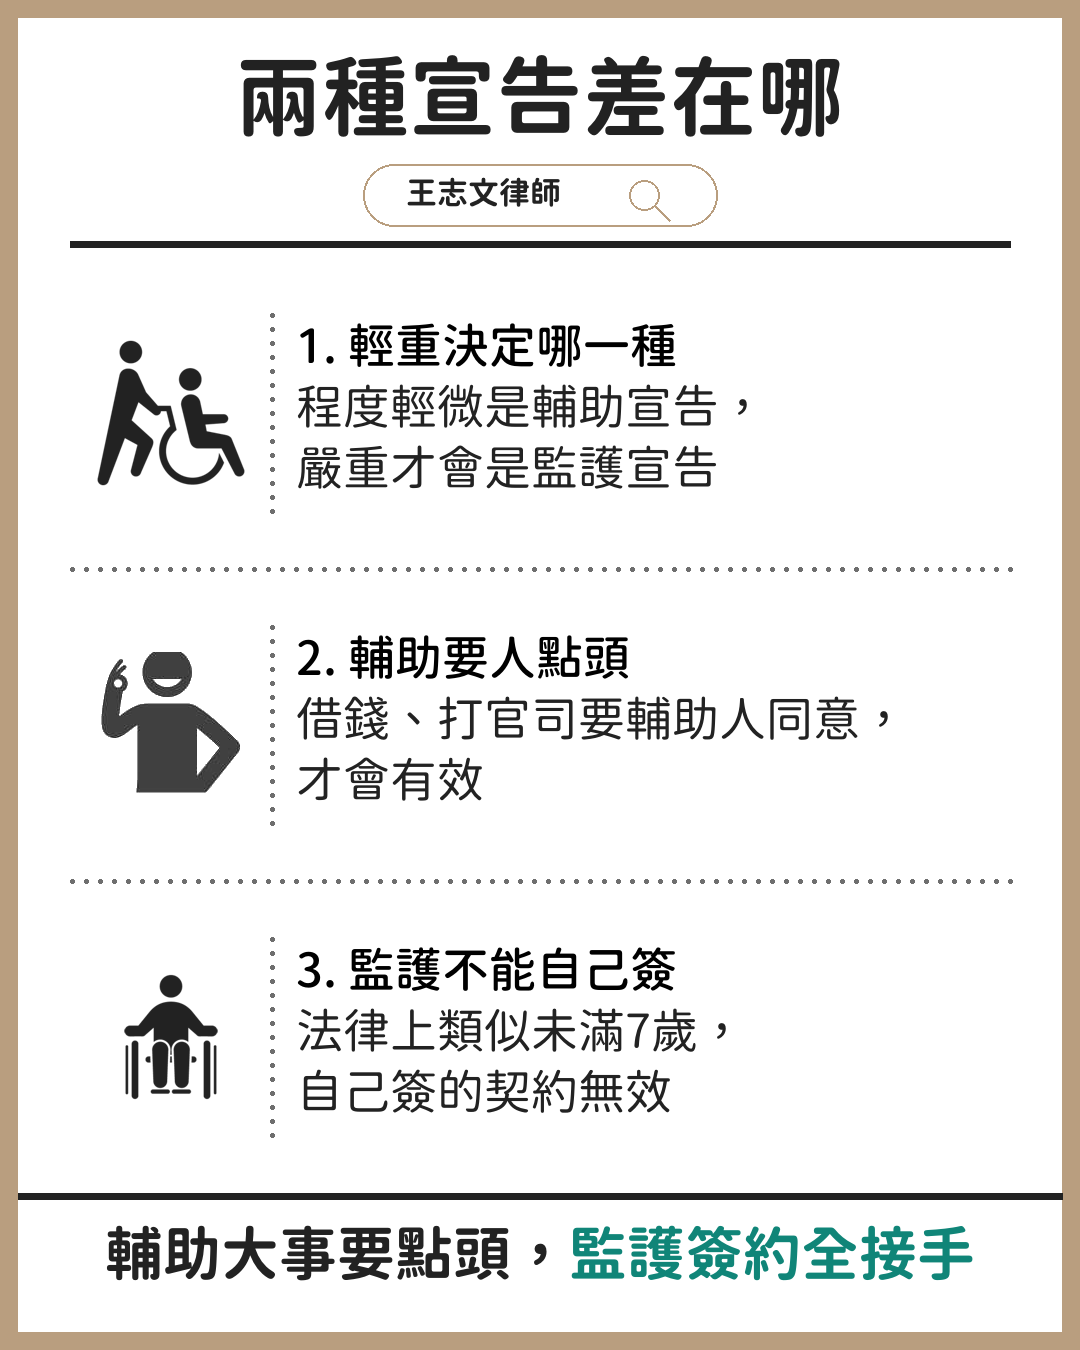
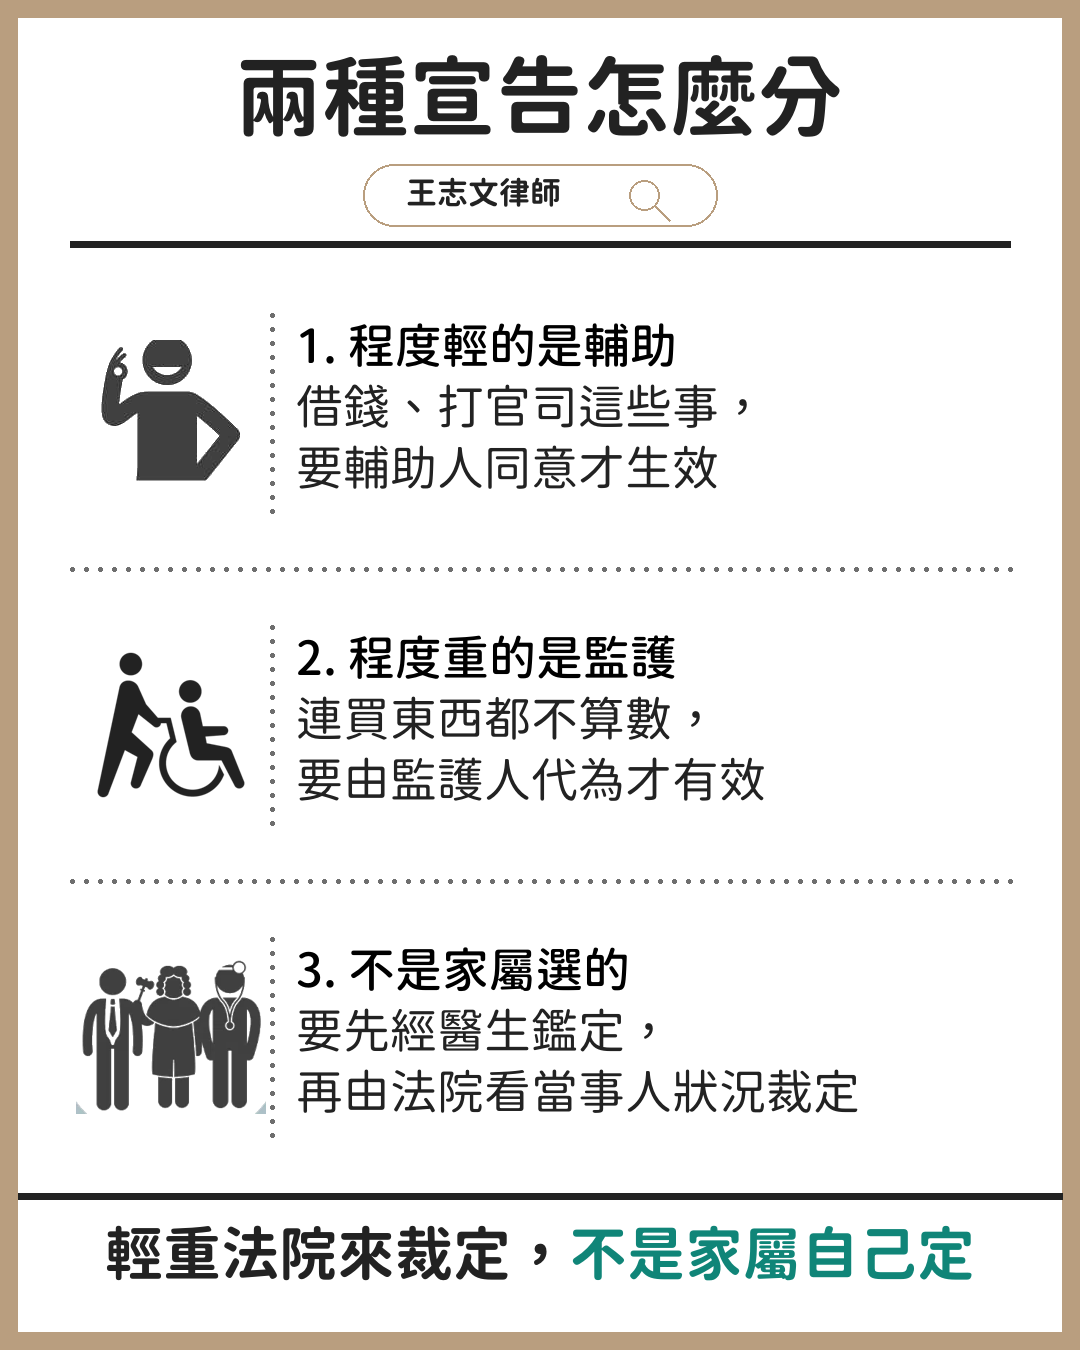
seo: 社群素材 2026-W37（3 則）

diff --git a/seo/2026-W37.html b/seo/2026-W37.html
@@ -1,0 +1,96 @@
+<!doctype html>
+<html lang="zh-Hant">
+<head>
+<meta charset="utf-8">
+<meta name="viewport" content="width=device-width, initial-scale=1">
+<meta name="robots" content="noindex, nofollow">
+<title>SEO 社群素材 2026-W37</title>
+<style>
+  :root { color-scheme: light dark; }
+  * { box-sizing: border-box; }
+  body { margin:0; padding:16px; font-family:-apple-system,"PingFang TC",system-ui,sans-serif;
+         line-height:1.75; background:#f5f5f7; color:#1c1c1e; }
+  @media (prefers-color-scheme: dark) { body { background:#000; color:#f2f2f7; } }
+  header { max-width:680px; margin:0 auto 20px; }
+  h1 { font-size:20px; margin:0 0 6px; }
+  .hint { font-size:14px; opacity:.7; margin:0; }
+  .card { max-width:680px; margin:0 auto 18px; background:#fff; border-radius:14px;
+           padding:16px; box-shadow:0 1px 3px rgba(0,0,0,.08); }
+  @media (prefers-color-scheme: dark) { .card { background:#1c1c1e; } }
+  .meta { display:flex; gap:10px; align-items:center; font-size:12px; opacity:.6;
+           margin-bottom:10px; flex-wrap:wrap; }
+  .num { font-weight:600; opacity:1; }
+  .cardimg { width:100%; border-radius:10px; display:block; margin-bottom:8px; }
+  .imghint { font-size:12px; opacity:.55; margin:0 0 12px; }
+  .body { font-size:16px; white-space:pre-wrap; margin-bottom:14px; }
+  .actions { display:flex; gap:10px; }
+  .btn { flex:1; text-align:center; padding:12px; border-radius:10px; font-size:15px;
+          text-decoration:none; border:0; cursor:pointer; font-family:inherit; }
+  .primary { background:#000; color:#fff; font-weight:600; }
+  @media (prefers-color-scheme: dark) { .primary { background:#fff; color:#000; } }
+  .ghost { background:rgba(120,120,128,.16); color:inherit; }
+</style>
+</head>
+<body>
+<header>
+  <h1>SEO 社群素材 2026-W37</h1>
+  <p class="hint">點「發到 Threads」會開啟 Threads 並自動填好內容，你只要按發布。<br>
+     內容全部取自站上已發布的文章，沒有新增任何法律主張。</p>
+</header>
+
+  <article class="card">
+    <div class="meta"><span class="num">1 / 3</span>
+      <span class="src">輔助宣告、監護宣告聲請流程，圖解1次看懂！ - 王志</span>
+      <span class="len">323 字</span></div>
+    <img class="cardimg" src="img/%E8%BC%94%E5%8A%A9%E5%AE%A3%E5%91%8A_%E7%9B%A3%E8%AD%B7%E5%AE%A3%E5%91%8A%E8%81%B2%E8%AB%8B%E6%B5%81%E7%A8%8B_%E5%9C%96%E8%A7%A31%E6%AC%A1%E7%9C%8B%E6%87%82_%E7%8E%8B%E5%BF%97%E6%96%87%E5%BE%8B%E5%B8%AB_%E6%B0%91_1.png" alt="圖卡" loading="lazy"><p class="imghint">長按上圖存到相簿，發文時一起附上（Threads 的預填連結不能帶圖）</p>
+    <div class="body">家裡長輩失智以後，最讓人睡不著的通常不是他忘東忘西，是怕他被人哄著，哪天就把名下的房子過戶給了不相干的外人。所以很多家庭第一次來問的問題就是，我們家該辦輔助宣告，還是監護宣告。
+
+這兩種制度的分界在當事人的精神狀況有多嚴重，不在家屬的意願。表達或理解意思的能力明顯不足，法院裁定的是輔助宣告，像借錢、打官司這些行為要經過輔助人同意才生效，法律上的地位類似7至18歲的人。嚴重到不能表達自己的意思，也無法理解別人在說什麼，法院裁定的才是監護宣告，人成了無行為能力人，類似未滿7歲，自己做的意思表示無效，連買東西都要由監護人代為。
+
+程度輕重不是家屬在客廳裡討論出來的，這類案件要先經過醫生鑑定，再由法院看當事人的狀況裁定，中間當事人還可能提起抗告。</div>
+    <div class="actions">
+      <a class="btn primary" href="https://www.threads.net/intent/post?text=%E5%AE%B6%E8%A3%A1%E9%95%B7%E8%BC%A9%E5%A4%B1%E6%99%BA%E4%BB%A5%E5%BE%8C%EF%BC%8C%E6%9C%80%E8%AE%93%E4%BA%BA%E7%9D%A1%E4%B8%8D%E8%91%97%E7%9A%84%E9%80%9A%E5%B8%B8%E4%B8%8D%E6%98%AF%E4%BB%96%E5%BF%98%E6%9D%B1%E5%BF%98%E8%A5%BF%EF%BC%8C%E6%98%AF%E6%80%95%E4%BB%96%E8%A2%AB%E4%BA%BA%E5%93%84%E8%91%97%EF%BC%8C%E5%93%AA%E5%A4%A9%E5%B0%B1%E6%8A%8A%E5%90%8D%E4%B8%8B%E7%9A%84%E6%88%BF%E5%AD%90%E9%81%8E%E6%88%B6%E7%B5%A6%E4%BA%86%E4%B8%8D%E7%9B%B8%E5%B9%B2%E7%9A%84%E5%A4%96%E4%BA%BA%E3%80%82%E6%89%80%E4%BB%A5%E5%BE%88%E5%A4%9A%E5%AE%B6%E5%BA%AD%E7%AC%AC%E4%B8%80%E6%AC%A1%E4%BE%86%E5%95%8F%E7%9A%84%E5%95%8F%E9%A1%8C%E5%B0%B1%E6%98%AF%EF%BC%8C%E6%88%91%E5%80%91%E5%AE%B6%E8%A9%B2%E8%BE%A6%E8%BC%94%E5%8A%A9%E5%AE%A3%E5%91%8A%EF%BC%8C%E9%82%84%E6%98%AF%E7%9B%A3%E8%AD%B7%E5%AE%A3%E5%91%8A%E3%80%82%0A%0A%E9%80%99%E5%85%A9%E7%A8%AE%E5%88%B6%E5%BA%A6%E7%9A%84%E5%88%86%E7%95%8C%E5%9C%A8%E7%95%B6%E4%BA%8B%E4%BA%BA%E7%9A%84%E7%B2%BE%E7%A5%9E%E7%8B%80%E6%B3%81%E6%9C%89%E5%A4%9A%E5%9A%B4%E9%87%8D%EF%BC%8C%E4%B8%8D%E5%9C%A8%E5%AE%B6%E5%B1%AC%E7%9A%84%E6%84%8F%E9%A1%98%E3%80%82%E8%A1%A8%E9%81%94%E6%88%96%E7%90%86%E8%A7%A3%E6%84%8F%E6%80%9D%E7%9A%84%E8%83%BD%E5%8A%9B%E6%98%8E%E9%A1%AF%E4%B8%8D%E8%B6%B3%EF%BC%8C%E6%B3%95%E9%99%A2%E8%A3%81%E5%AE%9A%E7%9A%84%E6%98%AF%E8%BC%94%E5%8A%A9%E5%AE%A3%E5%91%8A%EF%BC%8C%E5%83%8F%E5%80%9F%E9%8C%A2%E3%80%81%E6%89%93%E5%AE%98%E5%8F%B8%E9%80%99%E4%BA%9B%E8%A1%8C%E7%82%BA%E8%A6%81%E7%B6%93%E9%81%8E%E8%BC%94%E5%8A%A9%E4%BA%BA%E5%90%8C%E6%84%8F%E6%89%8D%E7%94%9F%E6%95%88%EF%BC%8C%E6%B3%95%E5%BE%8B%E4%B8%8A%E7%9A%84%E5%9C%B0%E4%BD%8D%E9%A1%9E%E4%BC%BC7%E8%87%B318%E6%AD%B2%E7%9A%84%E4%BA%BA%E3%80%82%E5%9A%B4%E9%87%8D%E5%88%B0%E4%B8%8D%E8%83%BD%E8%A1%A8%E9%81%94%E8%87%AA%E5%B7%B1%E7%9A%84%E6%84%8F%E6%80%9D%EF%BC%8C%E4%B9%9F%E7%84%A1%E6%B3%95%E7%90%86%E8%A7%A3%E5%88%A5%E4%BA%BA%E5%9C%A8%E8%AA%AA%E4%BB%80%E9%BA%BC%EF%BC%8C%E6%B3%95%E9%99%A2%E8%A3%81%E5%AE%9A%E7%9A%84%E6%89%8D%E6%98%AF%E7%9B%A3%E8%AD%B7%E5%AE%A3%E5%91%8A%EF%BC%8C%E4%BA%BA%E6%88%90%E4%BA%86%E7%84%A1%E8%A1%8C%E7%82%BA%E8%83%BD%E5%8A%9B%E4%BA%BA%EF%BC%8C%E9%A1%9E%E4%BC%BC%E6%9C%AA%E6%BB%BF7%E6%AD%B2%EF%BC%8C%E8%87%AA%E5%B7%B1%E5%81%9A%E7%9A%84%E6%84%8F%E6%80%9D%E8%A1%A8%E7%A4%BA%E7%84%A1%E6%95%88%EF%BC%8C%E9%80%A3%E8%B2%B7%E6%9D%B1%E8%A5%BF%E9%83%BD%E8%A6%81%E7%94%B1%E7%9B%A3%E8%AD%B7%E4%BA%BA%E4%BB%A3%E7%82%BA%E3%80%82%0A%0A%E7%A8%8B%E5%BA%A6%E8%BC%95%E9%87%8D%E4%B8%8D%E6%98%AF%E5%AE%B6%E5%B1%AC%E5%9C%A8%E5%AE%A2%E5%BB%B3%E8%A3%A1%E8%A8%8E%E8%AB%96%E5%87%BA%E4%BE%86%E7%9A%84%EF%BC%8C%E9%80%99%E9%A1%9E%E6%A1%88%E4%BB%B6%E8%A6%81%E5%85%88%E7%B6%93%E9%81%8E%E9%86%AB%E7%94%9F%E9%91%91%E5%AE%9A%EF%BC%8C%E5%86%8D%E7%94%B1%E6%B3%95%E9%99%A2%E7%9C%8B%E7%95%B6%E4%BA%8B%E4%BA%BA%E7%9A%84%E7%8B%80%E6%B3%81%E8%A3%81%E5%AE%9A%EF%BC%8C%E4%B8%AD%E9%96%93%E7%95%B6%E4%BA%8B%E4%BA%BA%E9%82%84%E5%8F%AF%E8%83%BD%E6%8F%90%E8%B5%B7%E6%8A%97%E5%91%8A%E3%80%82" target="_blank" rel="noopener">發到 Threads</a>
+      <button class="btn ghost" onclick="copyPost(this, 0)">複製文字</button>
+    </div>
+  </article>
+  <article class="card">
+    <div class="meta"><span class="num">2 / 3</span>
+      <span class="src">輔助宣告、監護宣告聲請流程，圖解1次看懂！ - 王志</span>
+      <span class="len">301 字</span></div>
+    <img class="cardimg" src="img/%E8%BC%94%E5%8A%A9%E5%AE%A3%E5%91%8A_%E7%9B%A3%E8%AD%B7%E5%AE%A3%E5%91%8A%E8%81%B2%E8%AB%8B%E6%B5%81%E7%A8%8B_%E5%9C%96%E8%A7%A31%E6%AC%A1%E7%9C%8B%E6%87%82_%E7%8E%8B%E5%BF%97%E6%96%87%E5%BE%8B%E5%B8%AB_%E6%B0%91_2.png" alt="圖卡" loading="lazy"><p class="imghint">長按上圖存到相簿，發文時一起附上（Threads 的預填連結不能帶圖）</p>
+    <div class="body">監護宣告下來以後，他自己走進往來多年的那家銀行，要領的是自己名下的錢，行員一樣不能給他。帳戶從裁定生效那天起就交由監護人管理，要領錢得由監護人代為。
+
+受監護宣告的人在法律上是無行為能力人，日常的大小事，舉凡買東西、借錢，只要是自己單獨做的就都是無效的，一律要由監護人代為才算數。換來的是財產從此有人監督、有人管理，不會因為一時受騙就把存款或名下的房子交給別人，也不會做出明顯不利於自己的處分。連遺產也一樣，受監護宣告的人繼承權不會受到影響，但如果要協議分割遺產，或是涉及分割遺產的訴訟，都必須由監護人代為處理。
+
+多數家庭是在長輩已經簽了不該簽的東西、錢已經匯出去之後，才開始認真討論要不要走這一步。</div>
+    <div class="actions">
+      <a class="btn primary" href="https://www.threads.net/intent/post?text=%E7%9B%A3%E8%AD%B7%E5%AE%A3%E5%91%8A%E4%B8%8B%E4%BE%86%E4%BB%A5%E5%BE%8C%EF%BC%8C%E4%BB%96%E8%87%AA%E5%B7%B1%E8%B5%B0%E9%80%B2%E5%BE%80%E4%BE%86%E5%A4%9A%E5%B9%B4%E7%9A%84%E9%82%A3%E5%AE%B6%E9%8A%80%E8%A1%8C%EF%BC%8C%E8%A6%81%E9%A0%98%E7%9A%84%E6%98%AF%E8%87%AA%E5%B7%B1%E5%90%8D%E4%B8%8B%E7%9A%84%E9%8C%A2%EF%BC%8C%E8%A1%8C%E5%93%A1%E4%B8%80%E6%A8%A3%E4%B8%8D%E8%83%BD%E7%B5%A6%E4%BB%96%E3%80%82%E5%B8%B3%E6%88%B6%E5%BE%9E%E8%A3%81%E5%AE%9A%E7%94%9F%E6%95%88%E9%82%A3%E5%A4%A9%E8%B5%B7%E5%B0%B1%E4%BA%A4%E7%94%B1%E7%9B%A3%E8%AD%B7%E4%BA%BA%E7%AE%A1%E7%90%86%EF%BC%8C%E8%A6%81%E9%A0%98%E9%8C%A2%E5%BE%97%E7%94%B1%E7%9B%A3%E8%AD%B7%E4%BA%BA%E4%BB%A3%E7%82%BA%E3%80%82%0A%0A%E5%8F%97%E7%9B%A3%E8%AD%B7%E5%AE%A3%E5%91%8A%E7%9A%84%E4%BA%BA%E5%9C%A8%E6%B3%95%E5%BE%8B%E4%B8%8A%E6%98%AF%E7%84%A1%E8%A1%8C%E7%82%BA%E8%83%BD%E5%8A%9B%E4%BA%BA%EF%BC%8C%E6%97%A5%E5%B8%B8%E7%9A%84%E5%A4%A7%E5%B0%8F%E4%BA%8B%EF%BC%8C%E8%88%89%E5%87%A1%E8%B2%B7%E6%9D%B1%E8%A5%BF%E3%80%81%E5%80%9F%E9%8C%A2%EF%BC%8C%E5%8F%AA%E8%A6%81%E6%98%AF%E8%87%AA%E5%B7%B1%E5%96%AE%E7%8D%A8%E5%81%9A%E7%9A%84%E5%B0%B1%E9%83%BD%E6%98%AF%E7%84%A1%E6%95%88%E7%9A%84%EF%BC%8C%E4%B8%80%E5%BE%8B%E8%A6%81%E7%94%B1%E7%9B%A3%E8%AD%B7%E4%BA%BA%E4%BB%A3%E7%82%BA%E6%89%8D%E7%AE%97%E6%95%B8%E3%80%82%E6%8F%9B%E4%BE%86%E7%9A%84%E6%98%AF%E8%B2%A1%E7%94%A2%E5%BE%9E%E6%AD%A4%E6%9C%89%E4%BA%BA%E7%9B%A3%E7%9D%A3%E3%80%81%E6%9C%89%E4%BA%BA%E7%AE%A1%E7%90%86%EF%BC%8C%E4%B8%8D%E6%9C%83%E5%9B%A0%E7%82%BA%E4%B8%80%E6%99%82%E5%8F%97%E9%A8%99%E5%B0%B1%E6%8A%8A%E5%AD%98%E6%AC%BE%E6%88%96%E5%90%8D%E4%B8%8B%E7%9A%84%E6%88%BF%E5%AD%90%E4%BA%A4%E7%B5%A6%E5%88%A5%E4%BA%BA%EF%BC%8C%E4%B9%9F%E4%B8%8D%E6%9C%83%E5%81%9A%E5%87%BA%E6%98%8E%E9%A1%AF%E4%B8%8D%E5%88%A9%E6%96%BC%E8%87%AA%E5%B7%B1%E7%9A%84%E8%99%95%E5%88%86%E3%80%82%E9%80%A3%E9%81%BA%E7%94%A2%E4%B9%9F%E4%B8%80%E6%A8%A3%EF%BC%8C%E5%8F%97%E7%9B%A3%E8%AD%B7%E5%AE%A3%E5%91%8A%E7%9A%84%E4%BA%BA%E7%B9%BC%E6%89%BF%E6%AC%8A%E4%B8%8D%E6%9C%83%E5%8F%97%E5%88%B0%E5%BD%B1%E9%9F%BF%EF%BC%8C%E4%BD%86%E5%A6%82%E6%9E%9C%E8%A6%81%E5%8D%94%E8%AD%B0%E5%88%86%E5%89%B2%E9%81%BA%E7%94%A2%EF%BC%8C%E6%88%96%E6%98%AF%E6%B6%89%E5%8F%8A%E5%88%86%E5%89%B2%E9%81%BA%E7%94%A2%E7%9A%84%E8%A8%B4%E8%A8%9F%EF%BC%8C%E9%83%BD%E5%BF%85%E9%A0%88%E7%94%B1%E7%9B%A3%E8%AD%B7%E4%BA%BA%E4%BB%A3%E7%82%BA%E8%99%95%E7%90%86%E3%80%82%0A%0A%E5%A4%9A%E6%95%B8%E5%AE%B6%E5%BA%AD%E6%98%AF%E5%9C%A8%E9%95%B7%E8%BC%A9%E5%B7%B2%E7%B6%93%E7%B0%BD%E4%BA%86%E4%B8%8D%E8%A9%B2%E7%B0%BD%E7%9A%84%E6%9D%B1%E8%A5%BF%E3%80%81%E9%8C%A2%E5%B7%B2%E7%B6%93%E5%8C%AF%E5%87%BA%E5%8E%BB%E4%B9%8B%E5%BE%8C%EF%BC%8C%E6%89%8D%E9%96%8B%E5%A7%8B%E8%AA%8D%E7%9C%9F%E8%A8%8E%E8%AB%96%E8%A6%81%E4%B8%8D%E8%A6%81%E8%B5%B0%E9%80%99%E4%B8%80%E6%AD%A5%E3%80%82" target="_blank" rel="noopener">發到 Threads</a>
+      <button class="btn ghost" onclick="copyPost(this, 1)">複製文字</button>
+    </div>
+  </article>
+  <article class="card">
+    <div class="meta"><span class="num">3 / 3</span>
+      <span class="src">輔助宣告、監護宣告聲請流程，圖解1次看懂！ - 王志</span>
+      <span class="len">310 字</span></div>
+    <img class="cardimg" src="img/%E8%BC%94%E5%8A%A9%E5%AE%A3%E5%91%8A_%E7%9B%A3%E8%AD%B7%E5%AE%A3%E5%91%8A%E8%81%B2%E8%AB%8B%E6%B5%81%E7%A8%8B_%E5%9C%96%E8%A7%A31%E6%AC%A1%E7%9C%8B%E6%87%82_%E7%8E%8B%E5%BF%97%E6%96%87%E5%BE%8B%E5%B8%AB_%E6%B0%91_3.png" alt="圖卡" loading="lazy"><p class="imghint">長按上圖存到相簿，發文時一起附上（Threads 的預填連結不能帶圖）</p>
+    <div class="body">監護人手上握的是另一個人的整副身家，選得不妥，財產處理不當的後果，全部由受監護的那個人自己承擔。而等到家裡人開始爭這個位置的時候，當事人本人通常已經沒辦法表示任何意見了。
+
+所以法律留了一條路，叫意定監護，讓人在自己還能作主的時候，先決定將來由誰來當監護人。趁神智還清楚的時候自己先挑好人選，對方只要是成年人，而且沒有受監護宣告、輔助宣告或破產宣告就可以，不限於家人，信任多年的好友、律師、醫生這些專業人士都行。契約簽完還不算成立，要辦理公證，由公證人做成公證書之後，這份契約才會成立，並且要等到本人真的受監護宣告那天才發生效力。
+
+如果現在就要你寫下那個將來替你簽名、替你去銀行領錢的人，你會寫下誰的名字，理由是什麼？</div>
+    <div class="actions">
+      <a class="btn primary" href="https://www.threads.net/intent/post?text=%E7%9B%A3%E8%AD%B7%E4%BA%BA%E6%89%8B%E4%B8%8A%E6%8F%A1%E7%9A%84%E6%98%AF%E5%8F%A6%E4%B8%80%E5%80%8B%E4%BA%BA%E7%9A%84%E6%95%B4%E5%89%AF%E8%BA%AB%E5%AE%B6%EF%BC%8C%E9%81%B8%E5%BE%97%E4%B8%8D%E5%A6%A5%EF%BC%8C%E8%B2%A1%E7%94%A2%E8%99%95%E7%90%86%E4%B8%8D%E7%95%B6%E7%9A%84%E5%BE%8C%E6%9E%9C%EF%BC%8C%E5%85%A8%E9%83%A8%E7%94%B1%E5%8F%97%E7%9B%A3%E8%AD%B7%E7%9A%84%E9%82%A3%E5%80%8B%E4%BA%BA%E8%87%AA%E5%B7%B1%E6%89%BF%E6%93%94%E3%80%82%E8%80%8C%E7%AD%89%E5%88%B0%E5%AE%B6%E8%A3%A1%E4%BA%BA%E9%96%8B%E5%A7%8B%E7%88%AD%E9%80%99%E5%80%8B%E4%BD%8D%E7%BD%AE%E7%9A%84%E6%99%82%E5%80%99%EF%BC%8C%E7%95%B6%E4%BA%8B%E4%BA%BA%E6%9C%AC%E4%BA%BA%E9%80%9A%E5%B8%B8%E5%B7%B2%E7%B6%93%E6%B2%92%E8%BE%A6%E6%B3%95%E8%A1%A8%E7%A4%BA%E4%BB%BB%E4%BD%95%E6%84%8F%E8%A6%8B%E4%BA%86%E3%80%82%0A%0A%E6%89%80%E4%BB%A5%E6%B3%95%E5%BE%8B%E7%95%99%E4%BA%86%E4%B8%80%E6%A2%9D%E8%B7%AF%EF%BC%8C%E5%8F%AB%E6%84%8F%E5%AE%9A%E7%9B%A3%E8%AD%B7%EF%BC%8C%E8%AE%93%E4%BA%BA%E5%9C%A8%E8%87%AA%E5%B7%B1%E9%82%84%E8%83%BD%E4%BD%9C%E4%B8%BB%E7%9A%84%E6%99%82%E5%80%99%EF%BC%8C%E5%85%88%E6%B1%BA%E5%AE%9A%E5%B0%87%E4%BE%86%E7%94%B1%E8%AA%B0%E4%BE%86%E7%95%B6%E7%9B%A3%E8%AD%B7%E4%BA%BA%E3%80%82%E8%B6%81%E7%A5%9E%E6%99%BA%E9%82%84%E6%B8%85%E6%A5%9A%E7%9A%84%E6%99%82%E5%80%99%E8%87%AA%E5%B7%B1%E5%85%88%E6%8C%91%E5%A5%BD%E4%BA%BA%E9%81%B8%EF%BC%8C%E5%B0%8D%E6%96%B9%E5%8F%AA%E8%A6%81%E6%98%AF%E6%88%90%E5%B9%B4%E4%BA%BA%EF%BC%8C%E8%80%8C%E4%B8%94%E6%B2%92%E6%9C%89%E5%8F%97%E7%9B%A3%E8%AD%B7%E5%AE%A3%E5%91%8A%E3%80%81%E8%BC%94%E5%8A%A9%E5%AE%A3%E5%91%8A%E6%88%96%E7%A0%B4%E7%94%A2%E5%AE%A3%E5%91%8A%E5%B0%B1%E5%8F%AF%E4%BB%A5%EF%BC%8C%E4%B8%8D%E9%99%90%E6%96%BC%E5%AE%B6%E4%BA%BA%EF%BC%8C%E4%BF%A1%E4%BB%BB%E5%A4%9A%E5%B9%B4%E7%9A%84%E5%A5%BD%E5%8F%8B%E3%80%81%E5%BE%8B%E5%B8%AB%E3%80%81%E9%86%AB%E7%94%9F%E9%80%99%E4%BA%9B%E5%B0%88%E6%A5%AD%E4%BA%BA%E5%A3%AB%E9%83%BD%E8%A1%8C%E3%80%82%E5%A5%91%E7%B4%84%E7%B0%BD%E5%AE%8C%E9%82%84%E4%B8%8D%E7%AE%97%E6%88%90%E7%AB%8B%EF%BC%8C%E8%A6%81%E8%BE%A6%E7%90%86%E5%85%AC%E8%AD%89%EF%BC%8C%E7%94%B1%E5%85%AC%E8%AD%89%E4%BA%BA%E5%81%9A%E6%88%90%E5%85%AC%E8%AD%89%E6%9B%B8%E4%B9%8B%E5%BE%8C%EF%BC%8C%E9%80%99%E4%BB%BD%E5%A5%91%E7%B4%84%E6%89%8D%E6%9C%83%E6%88%90%E7%AB%8B%EF%BC%8C%E4%B8%A6%E4%B8%94%E8%A6%81%E7%AD%89%E5%88%B0%E6%9C%AC%E4%BA%BA%E7%9C%9F%E7%9A%84%E5%8F%97%E7%9B%A3%E8%AD%B7%E5%AE%A3%E5%91%8A%E9%82%A3%E5%A4%A9%E6%89%8D%E7%99%BC%E7%94%9F%E6%95%88%E5%8A%9B%E3%80%82%0A%0A%E5%A6%82%E6%9E%9C%E7%8F%BE%E5%9C%A8%E5%B0%B1%E8%A6%81%E4%BD%A0%E5%AF%AB%E4%B8%8B%E9%82%A3%E5%80%8B%E5%B0%87%E4%BE%86%E6%9B%BF%E4%BD%A0%E7%B0%BD%E5%90%8D%E3%80%81%E6%9B%BF%E4%BD%A0%E5%8E%BB%E9%8A%80%E8%A1%8C%E9%A0%98%E9%8C%A2%E7%9A%84%E4%BA%BA%EF%BC%8C%E4%BD%A0%E6%9C%83%E5%AF%AB%E4%B8%8B%E8%AA%B0%E7%9A%84%E5%90%8D%E5%AD%97%EF%BC%8C%E7%90%86%E7%94%B1%E6%98%AF%E4%BB%80%E9%BA%BC%EF%BC%9F" target="_blank" rel="noopener">發到 Threads</a>
+      <button class="btn ghost" onclick="copyPost(this, 2)">複製文字</button>
+    </div>
+  </article>
+<script>
+const POSTS = ["家裡長輩失智以後，最讓人睡不著的通常不是他忘東忘西，是怕他被人哄著，哪天就把名下的房子過戶給了不相干的外人。所以很多家庭第一次來問的問題就是，我們家該辦輔助宣告，還是監護宣告。\n\n這兩種制度的分界在當事人的精神狀況有多嚴重，不在家屬的意願。表達或理解意思的能力明顯不足，法院裁定的是輔助宣告，像借錢、打官司這些行為要經過輔助人同意才生效，法律上的地位類似7至18歲的人。嚴重到不能表達自己的意思，也無法理解別人在說什麼，法院裁定的才是監護宣告，人成了無行為能力人，類似未滿7歲，自己做的意思表示無效，連買東西都要由監護人代為。\n\n程度輕重不是家屬在客廳裡討論出來的，這類案件要先經過醫生鑑定，再由法院看當事人的狀況裁定，中間當事人還可能提起抗告。", "監護宣告下來以後，他自己走進往來多年的那家銀行，要領的是自己名下的錢，行員一樣不能給他。帳戶從裁定生效那天起就交由監護人管理，要領錢得由監護人代為。\n\n受監護宣告的人在法律上是無行為能力人，日常的大小事，舉凡買東西、借錢，只要是自己單獨做的就都是無效的，一律要由監護人代為才算數。換來的是財產從此有人監督、有人管理，不會因為一時受騙就把存款或名下的房子交給別人，也不會做出明顯不利於自己的處分。連遺產也一樣，受監護宣告的人繼承權不會受到影響，但如果要協議分割遺產，或是涉及分割遺產的訴訟，都必須由監護人代為處理。\n\n多數家庭是在長輩已經簽了不該簽的東西、錢已經匯出去之後，才開始認真討論要不要走這一步。", "監護人手上握的是另一個人的整副身家，選得不妥，財產處理不當的後果，全部由受監護的那個人自己承擔。而等到家裡人開始爭這個位置的時候，當事人本人通常已經沒辦法表示任何意見了。\n\n所以法律留了一條路，叫意定監護，讓人在自己還能作主的時候，先決定將來由誰來當監護人。趁神智還清楚的時候自己先挑好人選，對方只要是成年人，而且沒有受監護宣告、輔助宣告或破產宣告就可以，不限於家人，信任多年的好友、律師、醫生這些專業人士都行。契約簽完還不算成立，要辦理公證，由公證人做成公證書之後，這份契約才會成立，並且要等到本人真的受監護宣告那天才發生效力。\n\n如果現在就要你寫下那個將來替你簽名、替你去銀行領錢的人，你會寫下誰的名字，理由是什麼？"];
+function copyPost(btn, i) {
+  navigator.clipboard.writeText(POSTS[i]).then(() => {
+    const o = btn.textContent; btn.textContent = "已複製";
+    setTimeout(() => btn.textContent = o, 1500);
+  });
+}
+</script>
+</body>
+</html>
